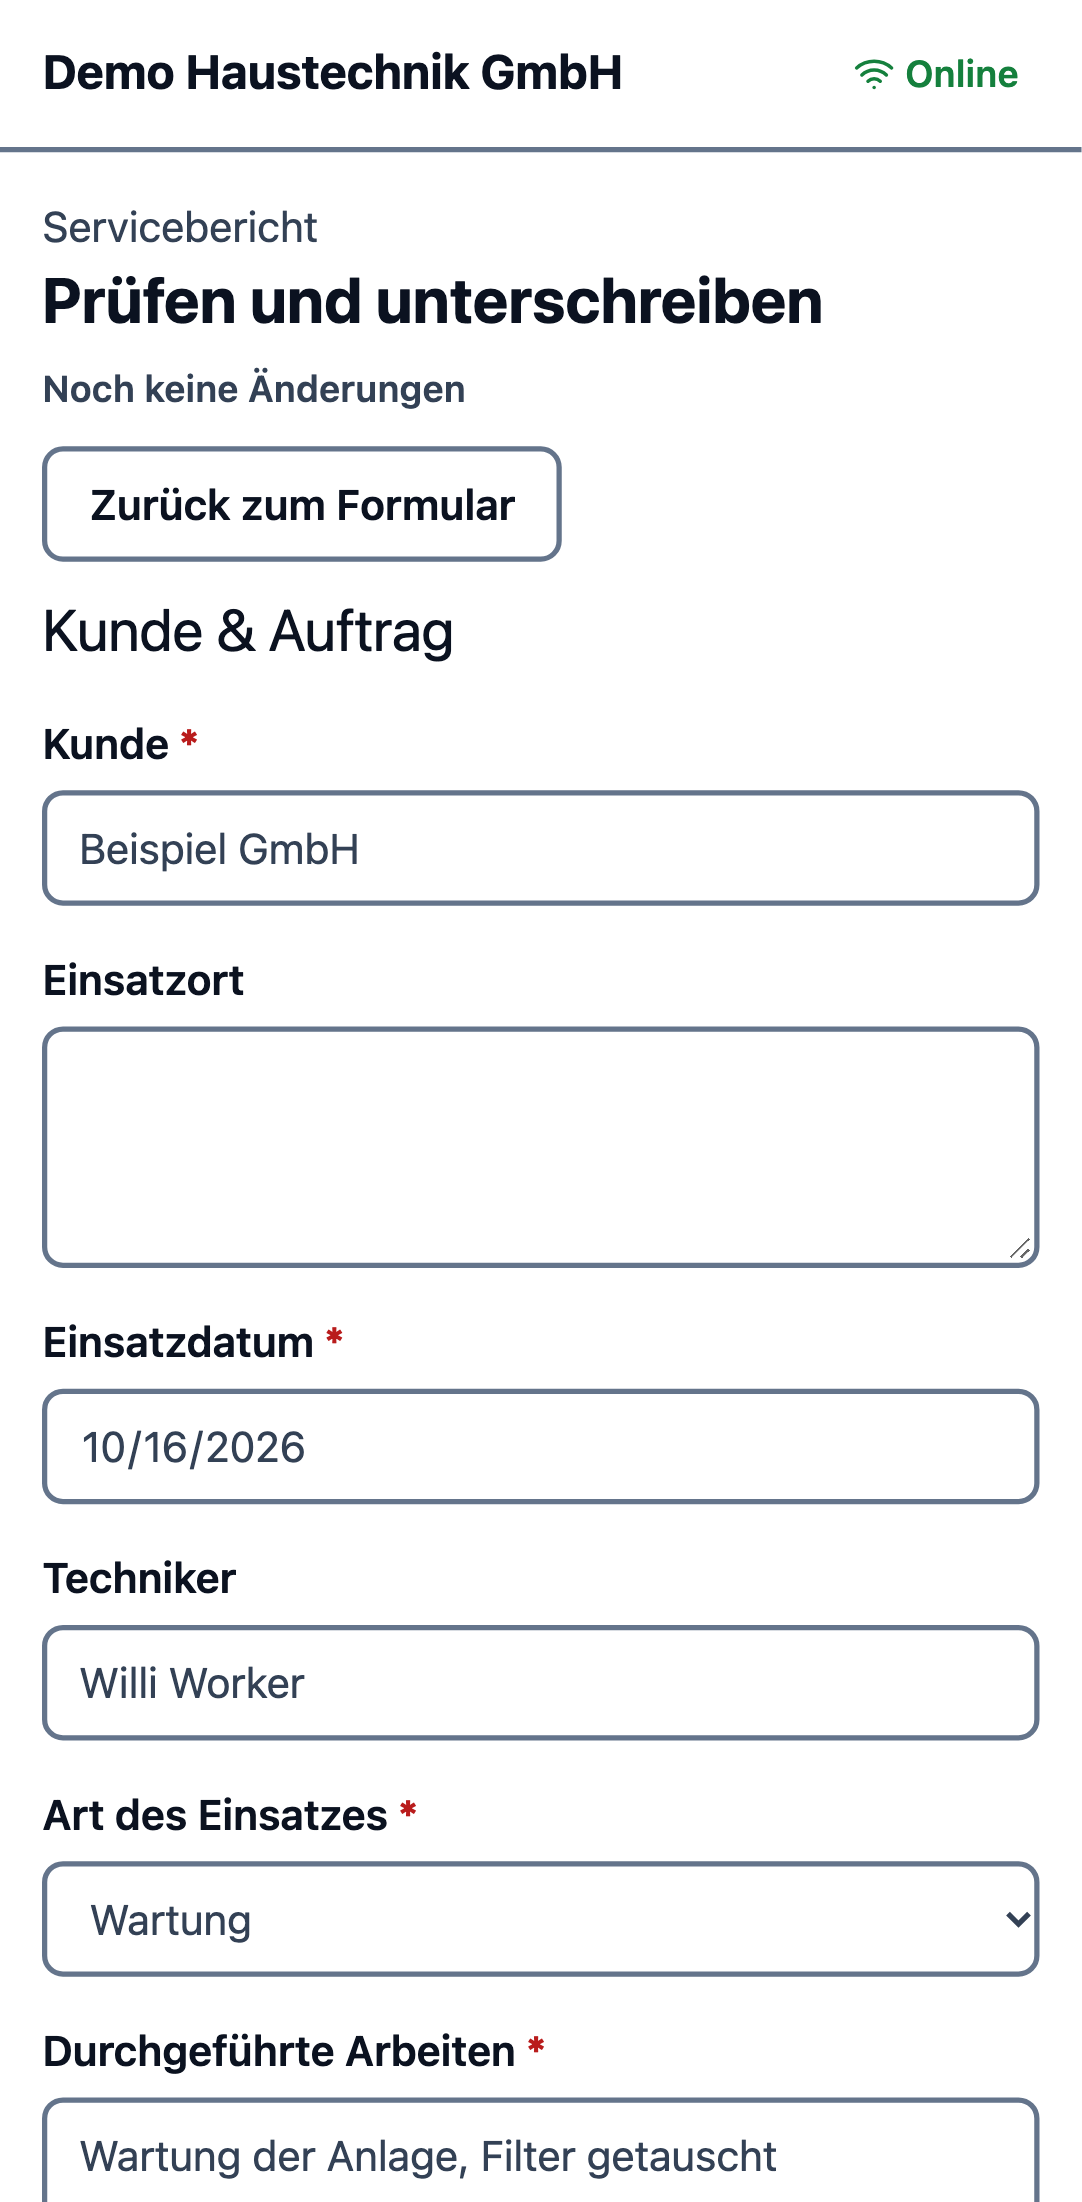
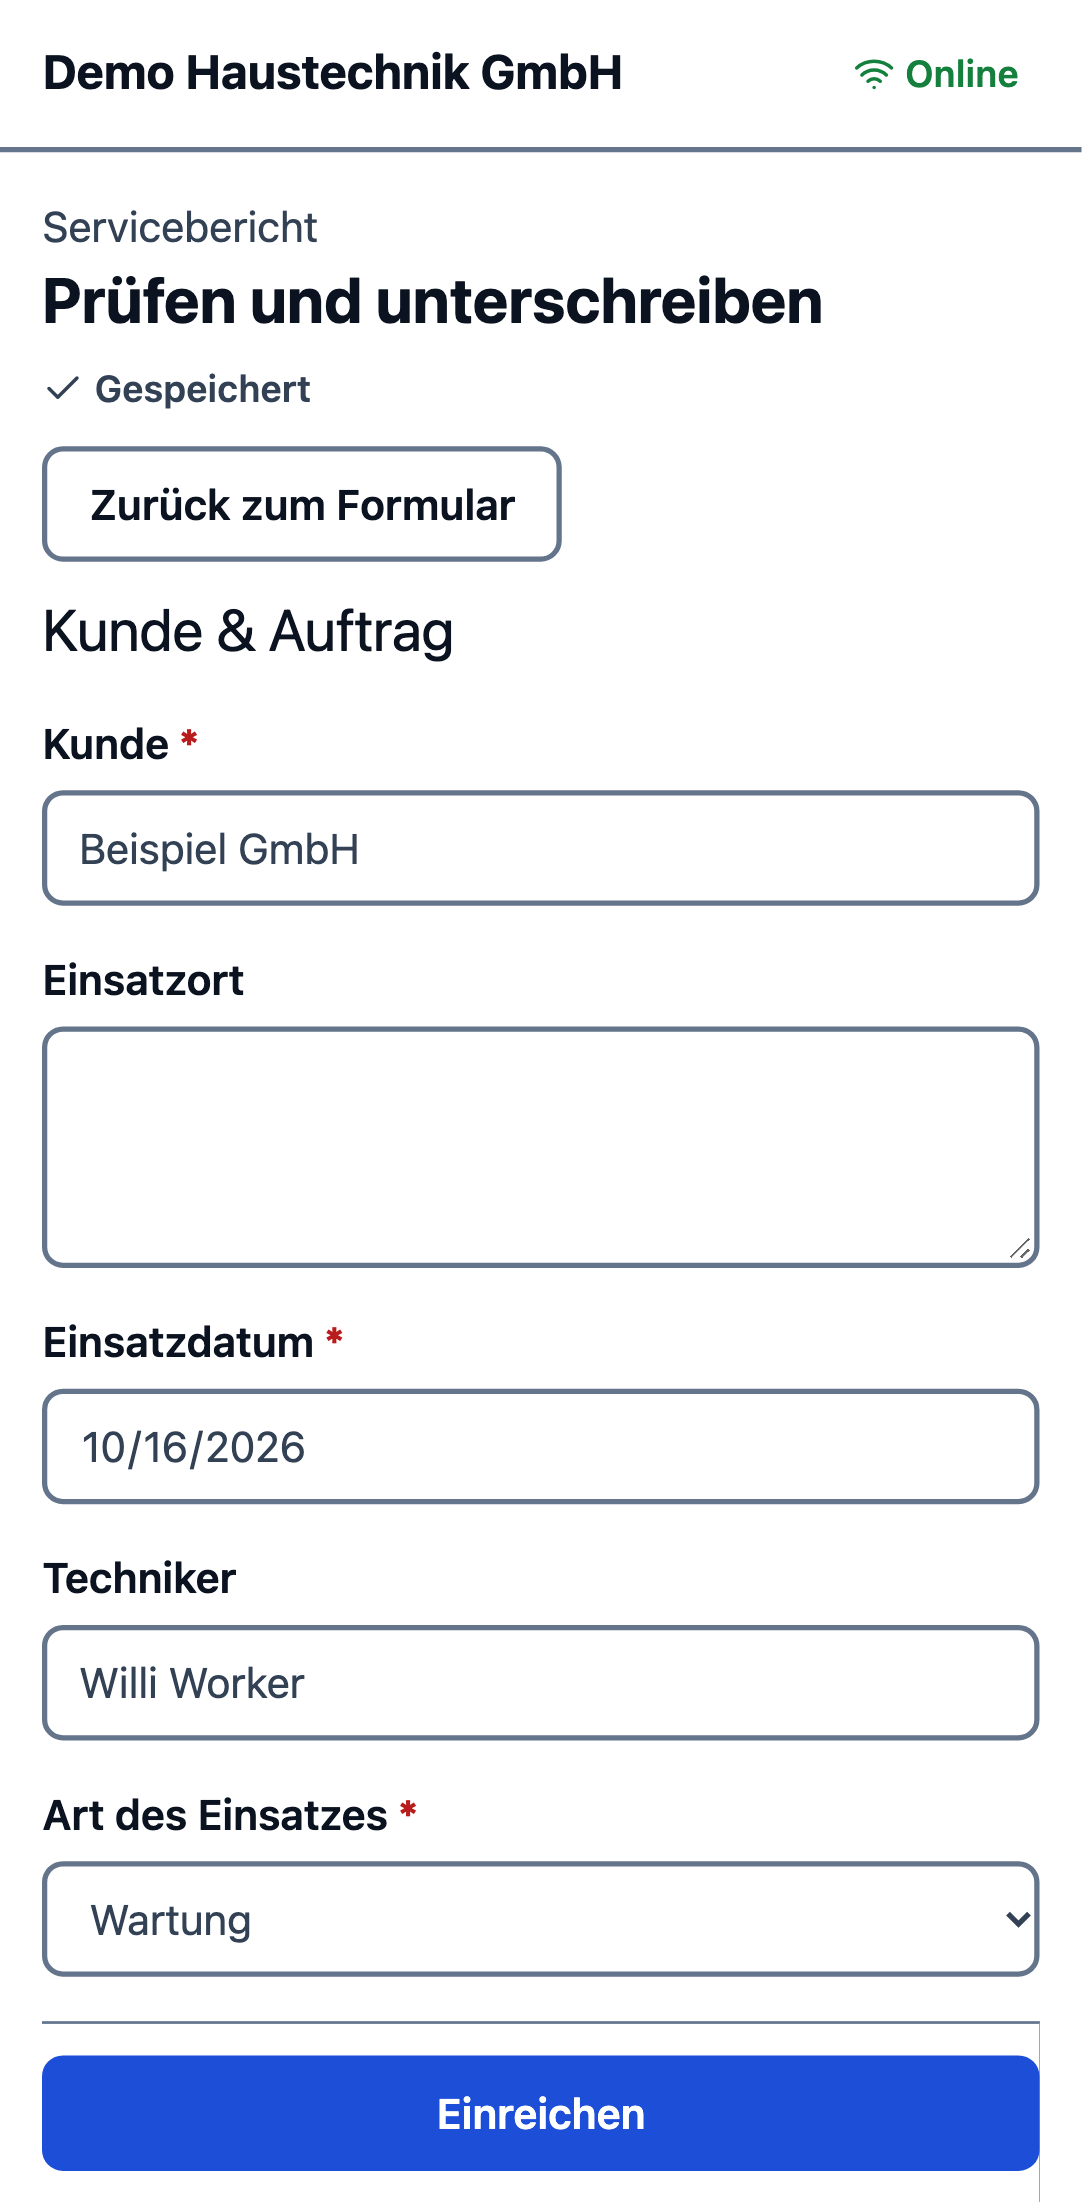
docs: M2 gate report and evidence

Changed region(s): [[0.0305, 0.9264, 0.976, 1.0], [0.0305, 0.1544, 0.427, 0.1853]]

diff --git a/docs/agent/milestones/M2.md b/docs/agent/milestones/M2.md
@@ -1,0 +1,84 @@
+# M2 Field App online — gate report (2026-10-16)
+
+## What was built
+- **Submission API** (`/api/v1`, contract `docs/api/field-app-v1.md`, OpenAPI 3.1 at `/docs/api` for
+  platform admins and member managers): forms catalog, version fetch, sync manifest, draft upsert with
+  client UUIDs and revisions (409 with the server copy), attachments (client UUIDs, content sniffing,
+  allow-list, GD re-encode without EXIF, pixel limit, private disk, sandboxed downloads), submit with
+  `Idempotency-Key`, server re-evaluation via form-schema-php, attachment manifest, retired-version and
+  revoked-access checks, gap-free numbering per form and period (org time zone).
+- **Domain**: `submissions`, `submission_events`, `attachments`, `number_sequences`, `idempotency_keys`,
+  `devices`, `submission_values` read model + `app:reproject`; in-house status machine (ADR 0025);
+  FormAccessResolver (Owner/Admin all, else role/group grants); visibility own + group `share_submissions`.
+- **Devices** (§9.3): registration with a one-time secret (hash stored), `POST /api/v1/auth/device-status`
+  ok/reauth/wipe, revoke + remote wipe from the member page, sessions bound to a device end when it is
+  revoked, deactivating a user revokes tokens, sessions and devices.
+- **Retry safety** (ADR 0027): request-wide idempotency transaction with an advisory lock, 2xx-only
+  replay, natural idempotency of submit and draft saves, allocator that never re-issues a number.
+- **Renderer** `packages/form-schema-react` (MIT): all spec 1.0 element types, live `evaluate()`,
+  `requiredIf`/`readOnlyIf` from the JS SDK's new presentation maps, wizard/scroll, pointer errors with a
+  focusable summary, repeater cards/table with virtualization and stable row keys, signature_pad, photo
+  compression, opt-in location, sanitized Markdown, Intl formatting, DE/EN messages.
+- **Field App** `resources/field-app` (served at `/app/`): login + 2FA, device registration and
+  device-status handling, org picker, home (drafts, favourites, recent), catalog, fill with server
+  autosave and conflict choice, review & sign, idempotent submit, my submissions, detail, settings,
+  DE/EN, per-route titles and focus.
+- **Builder preview**: `/form-preview/` entry in a phone/tablet iframe, unsaved definition via
+  origin- and source-checked postMessage, strict CSP.
+- **Fillable-PDF import** (§8.13, ADR 0024): qpdf JSON parser job, mapping, repeater detection,
+  `x-import` metadata, import report in the builder, limits; generated fixtures (pdf-lib).
+
+## Acceptance criteria → tests
+| Requirement | Test |
+|---|---|
+| §9.2 drafts: client uuid, revision conflict 409 with server copy, editable states | `tests/Feature/Api/Submissions/SubmissionFlowTest.php`, `DraftSafetyTest.php` |
+| §9.2 submit: idempotency key, replay, reuse refused, server-authoritative calculations | `SubmissionFlowTest.php`, `IdempotencyTest.php` |
+| §8.10 AC gap-free numbering, rollback, period reset, format change between versions | `NumberingTest.php`, `SubmissionFlowTest.php` |
+| §9.2 attachments idempotent, sniffing, EXIF stripped, limits, cross-org conflict | `AttachmentAndDeviceTest.php`, `AttachmentSafetyTest.php` |
+| §9.3 device-status ok/reauth/wipe, revoke ends sessions, deactivation | `AttachmentAndDeviceTest.php`, `DeviceStatusTest.php` |
+| §9.3 AC every endpoint rejects out-of-grant/out-of-org access | `tests/Support/TenantIsolation/ApiRouteCases.php` via `TenantIsolationSuiteTest.php`, `VisibilityProjectionTest.php` |
+| §8.4 read model + reprojection | `VisibilityProjectionTest.php`, `ProjectionAndSyncTest.php` |
+| §9.2/§10 sync manifest (fillable ids complete, incremental) | `ProjectionAndSyncTest.php` |
+| §10 OpenAPI docs gated | `tests/Feature/Api/OpenApiDocsTest.php` |
+| §6.1 SPA + preview serving with CSP | `tests/Feature/Smoke/SpaRoutesTest.php` |
+| §8.13 PDF import (mapping, limits, encrypted/malformed, report) | `tests/Feature/Forms/PdfImportJobTest.php`, `PdfImportFilamentTest.php`, `tests/Unit/Forms/Pdf*` |
+| §9.1 renderer element types, logic, errors, a11y | `packages/form-schema-react/test/*` (110 tests, 98 % lines) |
+| §9.1 Field App screens, autosave, conflicts, submit, session loss | `resources/field-app/test/*` (164 tests, 97 % lines) |
+| §12 journey 2 with preview, journey 8 PDF import, mobile fill + submit | E2E `tests/e2e/m2-builder.spec.ts`, `tests/e2e/m2-field-app.spec.ts` |
+
+## Gate results
+- PHP: 3016 tests green; coverage (pcov) total 94.77 %, SDK 99.69 %, `Domain/Forms/Schema` 100 %,
+  tenancy 100 %; PHPStan level 8 (app) and level 10 (SDK, Schema) 0 errors; Pint clean; licenses OK.
+- JS: form-schema-js 606, renderer 110, Field App 164 tests green; typecheck, ESLint, Prettier, build
+  clean; conformance 391/391 (PHP + JS); npm licenses OK (386 packages).
+- E2E: 9/9 (setup ×2, M0 ×3, M1 ×1, M2 ×3), run twice back to back; screenshots in `evidence/M2/`.
+
+## Reviews (three reviewer subagents: security/tenancy, backend correctness, frontend races/a11y)
+| Finding | Severity | Resolution |
+|---|---|---|
+| Device revoke left its session usable | high | session bound at registration, `EndRevokedDeviceSession` on web/api/admin (0925fa3) |
+| Idempotency replayed state-dependent 4xx; not atomic with submit | high | 2xx-only, advisory-locked request transaction, natural idempotency (f6f8ccf, ADR 0027) |
+| Reset/format change between versions → duplicate number → every submit 500 | high | allocator skips issued numbers under a per-form lock |
+| Uploads not awaited before review/submit; stale draft cache on reopen | high | shared draft session, work tracker, cache written on save (b084e9f) |
+| Lost responses → self-conflicts (server and client) | medium | replay of the last success; client adopts identical server copy |
+| Draft PUT: retired/mismatched version, 403 existence oracle, 2 MB cap | medium/low | 409 `version_retired`/`version_mismatch`, 404, 413 |
+| Attachment cross-org uuid → 500 + orphan file; decompression bomb; inline downloads | medium/low | 409, row-before-file, pixel limit, CSP sandbox + attachment disposition |
+| Reprojection not atomic; status drift; manifest misses grants | medium | per-submission transaction, status sync, inclusive cursor + touch on grants |
+| Timers after stop, wipe notice lost, cache across users, repeater index keys | medium | disposed flag, sticky notice, cache clear, stable keys + pending-edit registry |
+| Focus/title on route change, sticky footer obscuring focus, live-region noise | medium/low | RootLayout titles/focus, scroll-padding, quieter save status |
+| Device-status timing oracle; preview `source` check; focus colour 2.1:1 | low | dummy hash, source check, `#b45309` |
+
+Found by the E2E runs themselves: submission responses not wrapped in `{ submission }` (contract
+mismatch), the repeater table widening the page on phones (sticky Submit off screen), and a race when
+two designers create the same template concurrently (unique key) — all fixed with tests.
+
+## Deviations and known issues
+- Fortify endpoints live at the site root (`/auth/*`, plain JSON), as documented in the contract.
+- The Field App omits `device`/`geo` on draft saves (optional in the contract).
+- Attachments are fetched as blobs with credentials (no signed URLs): `<img>` cannot send
+  `X-Organization-Id`. Revisit for offline caching in M6.
+- A renderer unmounted by browser navigation mid-upload writes its last data plus the photo; it can
+  overwrite a signature made on Review meanwhile (Review is disabled while uploads run).
+- Preview iframe is same-origin (QUESTIONS #10, M8 task); devices are user-level (QUESTIONS #9);
+  `app:reproject` skips `changes_requested` submissions (QUESTIONS #11).
+- Offline outbox, Dexie and incremental manifest handling on the client are M6 scope (ADR 0006).

diff --git a/docs/agent/PLAN.md b/docs/agent/PLAN.md
@@ -53,13 +53,13 @@ AC refs point at BUILD_PROMPT sections. Test approach in brackets.
 - [x] M2-T09 `submission_values` projector (submit/resubmit/void) + `app:reproject {form?}` — §8.4, §6.4 [feature]
 - [x] M2-T10 `GET /sync/manifest?since=` (forms, versions, revocations, tasks placeholder) — §9.2, §10 [feature]
 - [x] M2-T11 OpenAPI 3.1 via dedoc/scramble at `/docs/api` (platform admins) — §10 [smoke test]
-- [ ] M2-T12 Field App shell `resources/field-app`: Vite (base `/app/`, entries app + preview), React 19, TanStack Router/Query, Tailwind 4, shadcn/ui, DE/EN i18n, login + 2FA + device registration, served by Laravel catch-all — §9.1, §6.1 [vitest + build]
-- [ ] M2-T13 Renderer (form-schema-js/react): all v1.0 types, live calculations via `evaluate()`, pointer errors, wizard/scroll, repeater cards/table + virtualization, signature_pad, photo capture/compression, location — §9.1, §9.2 [vitest + RTL]
-- [ ] M2-T14 Field App screens: home (drafts, start new), catalog, fill (server autosave), review & sign, submit, my submissions, settings — §9.1 [vitest + Playwright mobile]
-- [ ] M2-T15 Builder preview: `preview.html` entry in an iframe, origin-checked postMessage of the unsaved definition, phone/tablet toggle — §8.2, §6.1 [Playwright]
+- [x] M2-T12 Field App shell `resources/field-app`: Vite (base `/app/`, entries app + preview), React 19, TanStack Router/Query, Tailwind 4, shadcn/ui, DE/EN i18n, login + 2FA + device registration, served by Laravel catch-all — §9.1, §6.1 [vitest + build]
+- [x] M2-T13 Renderer (form-schema-js/react): all v1.0 types, live calculations via `evaluate()`, pointer errors, wizard/scroll, repeater cards/table + virtualization, signature_pad, photo capture/compression, location — §9.1, §9.2 [vitest + RTL]
+- [x] M2-T14 Field App screens: home (drafts, start new), catalog, fill (server autosave), review & sign, submit, my submissions, settings — §9.1 [vitest + Playwright mobile]
+- [x] M2-T15 Builder preview: `preview.html` entry in an iframe, origin-checked postMessage of the unsaved definition, phone/tablet toggle — §8.2, §6.1 [Playwright]
 - [x] M2-T16 Fillable-PDF import: fixture generator (pdf-lib), qpdf JSON parser job, mapping table, repeater detection, `x-import`, import report, limits; ADR qpdf vs pdf.js — §8.13 [feature on fixtures]
-- [ ] M2-T17 E2E journeys 2 (template → edit → preview → publish) and 8 (PDF import); API isolation cases — §12 [Playwright]
-- [ ] M2-T18 Gate M2
+- [x] M2-T17 E2E journeys 2 (template → edit → preview → publish) and 8 (PDF import); API isolation cases — §12 [Playwright]
+- [x] M2-T18 Gate M2
 
 ## M3 Documents + email (branch `m3-documents`)
 - [ ] M3-T01 Branding: logo upload (private disk, sniffed, re-encoded), primary/accent colors, bundled OFL font choice, company details; applied to PDFs and mails — §8.5 [Livewire + unit]

diff --git a/docs/agent/JOURNAL.md b/docs/agent/JOURNAL.md
@@ -42,3 +42,10 @@
 - Frontend subagent: form-schema-react renderer, Field App, preview entry (8b3f0e5; 214 tests, ~97 % cov).
 - E2E (5cb36c5): Field App phone journey found a contract mismatch (submission responses not wrapped
   in `{ submission }`) → fixed backend. Preview shows title; admin E2E reuse sessions (login throttle).
+
+## 2026-10-16 M2 gate
+- Reviews (security, backend correctness, frontend races/a11y): 5 high + ~20 medium/low fixed via two
+  parallel fix subagents (f6f8ccf, b084e9f) and directly (0925fa3 device sessions, 2613bde readOnlyIf).
+- E2E found 3 real bugs: unwrapped `{ submission }`, repeater table widening phones, template key race.
+- Gate: PHP 3016 tests, coverage 94.77 %, PHPStan 0/0, JS 606/110/164, conformance 391, E2E 9/9 ×2.
+  Report milestones/M2.md. ADR 0027; QUESTIONS #9–11.
